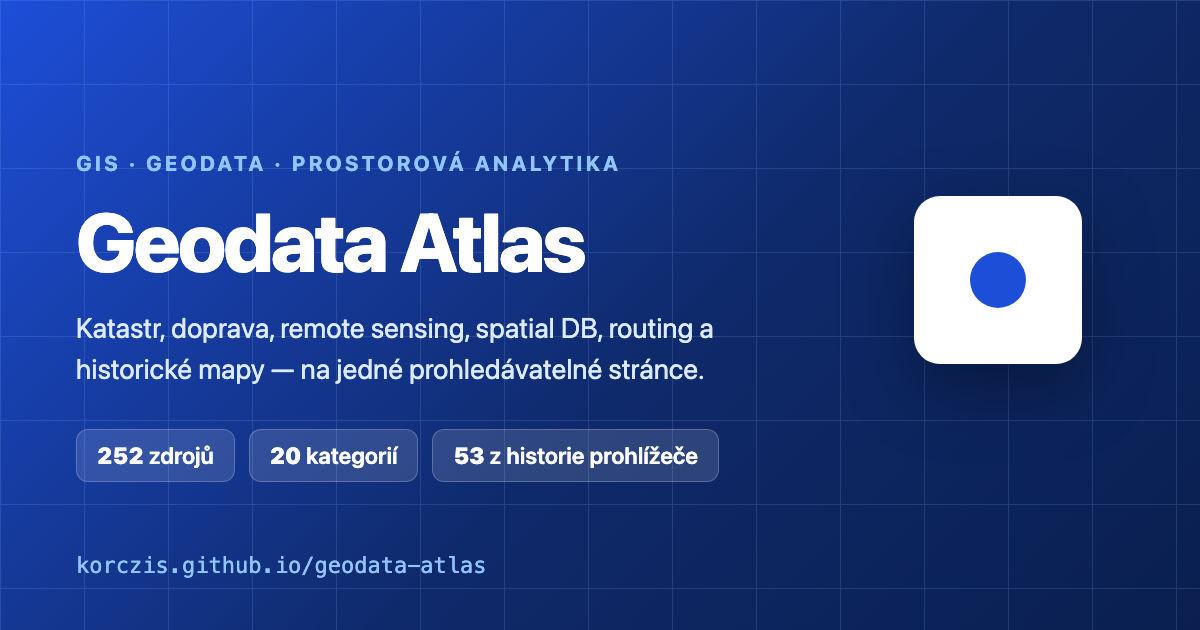
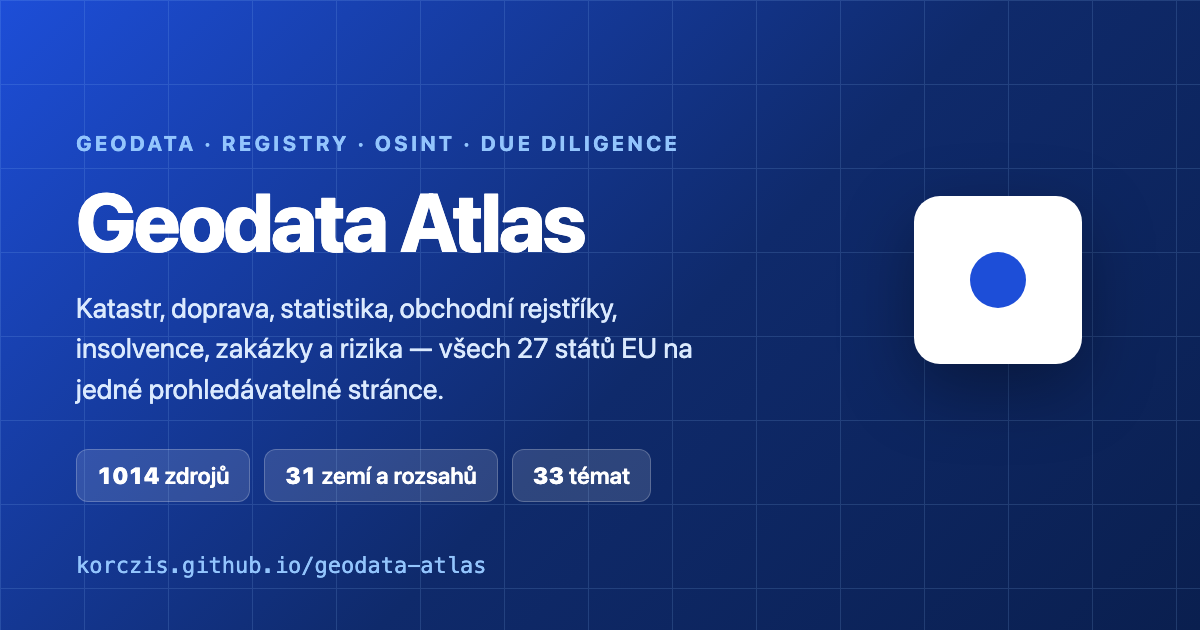
chore: regenerate the social card and gate curated data in CI
OG karta nesla počty dosazované náhradou literálů („<b>142</b>"), takže úprava
textu karty by dosazování tiše rozbila. Nově zástupné značky, které build_assets.py
vyžaduje — když v šabloně chybí, skončí to chybou, ne špatným obrázkem.
Číselné sloupce se přejmenovaly spolu se schématem katalogu.

CI nově pouští validate_sources.py a build_catalog.py a padá, když se
data/catalog.csv rozejde s data/sources/*.json — stejná pojistka, jakou už
mělo docs/. Pages workflow totéž před buildem.

README popisuje širší rozsah, obě osy klasifikace přístupu a nový datový řetěz;
ručně psané počty položek z něj zmizely úplně, protože se odvozují z dat.

Claude-Session: https://claude.ai/code/session_01QpTSppJbkMCygWg3x8Say3

Changed region(s): [[0.0617, 0.3016, 0.6167, 0.6333], [0.0617, 0.6635, 0.6167, 0.8143], [0.0617, 0.2111, 0.5858, 0.2714]]

diff --git a/src/assets/og.html b/src/assets/og.html
@@ -34,13 +34,13 @@
 <div class="grid"></div>
 <div class="cell"><i></i></div>
 <div class="wrap">
-  <p class="eyebrow">GIS · Geodata · Prostorová analytika</p>
+  <p class="eyebrow">Geodata · Registry · OSINT · Due diligence</p>
   <h1>Geodata&nbsp;Atlas</h1>
-  <p>Katastr, doprava, remote sensing, spatial DB, routing a historické mapy — na jedné prohledávatelné stránce.</p>
+  <p>Katastr, doprava, statistika, obchodní rejstříky, insolvence, zakázky a rizika — všech 27 států EU na jedné prohledávatelné stránce.</p>
   <div class="stats">
-    <span class="stat"><b>142</b> zdrojů</span>
-    <span class="stat"><b>17</b> kategorií</span>
-    <span class="stat"><b>53</b> z historie prohlížeče</span>
+    <span class="stat"><b>{{ITEMS}}</b> zdrojů</span>
+    <span class="stat"><b>{{COUNTRIES}}</b> zemí a rozsahů</span>
+    <span class="stat"><b>{{TOPICS}}</b> témat</span>
   </div>
 </div>
 <div class="url">korczis.github.io/geodata-atlas</div>

diff --git a/tools/build_assets.py b/tools/build_assets.py
@@ -41,12 +41,12 @@ def icon(size: int, out: Path) -> None:
                     "-gravity", "center", "-extent", f"{size}x{size}", out], check=True)
 
 
-def stats() -> tuple[int, int, int]:
+def stats() -> dict[str, int]:
     with (ROOT / "data" / "catalog.csv").open(encoding="utf-8-sig") as fh:
         rows = list(csv.DictReader(fh))
-    with (ROOT / "data" / "longlist.csv").open(encoding="utf-8-sig") as fh:
-        longlist = len(list(csv.DictReader(fh)))
-    return len(rows), len({r["Kategorie"] for r in rows}), longlist
+    return {"ITEMS": len(rows),
+            "TOPICS": len({r["Téma"] for r in rows}),
+            "COUNTRIES": len({r["Kód"] for r in rows})}
 
 
 def main() -> None:
@@ -72,11 +72,15 @@ def main() -> None:
     subprocess.run(["magick", TMP / "i16.png", TMP / "i32.png", TMP / "i48.png",
                     STATIC / "favicon.ico"], check=True)
 
-    items, cats, longlist = stats()
+    numbers = stats()
     og = (SRC / "og.html").read_text(encoding="utf-8")
-    og = og.replace("<b>142</b>", f"<b>{items}</b>") \
-           .replace("<b>17</b>", f"<b>{cats}</b>") \
-           .replace("<b>53</b>", f"<b>{longlist}</b>")
+    # Zástupné značky, ne náhrada literálů: dřív se v šabloně přepisovalo
+    # "<b>142</b>", takže úprava textu karty tiše rozbila dosazování počtů.
+    for key, value in numbers.items():
+        token = "{{" + key + "}}"
+        if token not in og:
+            raise SystemExit(f"src/assets/og.html neobsahuje značku {token}")
+        og = og.replace(token, str(value))
     page = TMP / "og.html"
     page.write_text(og, encoding="utf-8")
     shot(page, 1200, 630, STATIC / "og-image.png")
@@ -88,7 +92,8 @@ def main() -> None:
                     "-define", "png:compression-strategy=1",
                     STATIC / "og-image.png"], check=True)
 
-    print(f"static/: ikony + OG karta ({items} položek, {cats} kategorií, {longlist} v long listu)")
+    print("static/: ikony + OG karta ("
+          + ", ".join(f"{v} {k.lower()}" for k, v in numbers.items()) + ")")
     for f in sorted(STATIC.iterdir()):
         print(f"  {f.name:26s} {f.stat().st_size / 1024:7.1f} KB")
 

diff --git a/README.md b/README.md
@@ -1,38 +1,50 @@
 # Geodata Atlas
 
-Katalog GIS a geodatových zdrojů — datasety, katastr, doprava, remote sensing,
-prostorové databáze a analytika. Prohledávatelný, filtrovatelný, na jedné stránce.
+Katalog geodat, otevřených dat, veřejných registrů a OSINT/DD zdrojů Evropské unie —
+katastr, doprava, statistika, obchodní rejstříky, skuteční majitelé, insolvence, zakázky,
+soudy, regulace a rizika. Prohledávatelný, filtrovatelný, na jedné stránce.
 
 **→ [korczis.github.io/geodata-atlas](https://korczis.github.io/geodata-atlas/)**
 
-Katalog vznikl z vlastních Chrome záložek a historie: co jsem za roky práce
-s geodaty reálně používal, doplněné o zdroje, které do obrázku patří, i když
-je zrovna nemám v historii.
+Jádro katalogu vzniklo z vlastních Chrome záložek a historie: co jsem za roky práce
+s geodaty reálně používal. Zbytek je rešerše — všech 27 členských států, zdroj po zdroji,
+s ověřenou adresou a popsaným způsobem přístupu.
 
 ## Co v tom je
 
-252 položek ve 20 kategoriích:
+Dvě nezávislé osy: **téma** říká, o jaký druh zdroje jde, **země** říká, kde platí.
+Rejstřík firem je `companies` bez ohledu na to, jestli je český nebo maltský; Malta
+je `MT` bez ohledu na to, jestli jde o katastr nebo o soudy.
 
-| | |
+| Skupina | Témata |
 |---|---|
-| Gazetteery a geokódování | Nominatim, GeoNames, Pelias, RÚIAN/VDP, OpenAddresses |
-| Globální geodata | Natural Earth, GADM, geoBoundaries, Overture, TIGER/Line, Geofabrik |
-| ČR — katastr a geodata | ČÚZK (KN, geoportál, ZABAGED, DMR), ArcČR, DIBAVOD, LPIS, ČGS |
-| ČR — doprava a mobilita | Golemio, ŘSD, NDIC/dopravniinfo, PID |
-| Polsko — katastr a geodata | Geoportal/GUGiK, ULDK, Krajowa Integracja, RCN, ISOK, BDL |
-| Polsko — doprava a mobilita | GDDKiA, PKP PLK (MILK2), Portal Pasażera, GTFS |
-| Open data a registry PL | dane.gov.pl, GUS (BDL, TERYT), KRS, KRZ, CRBR, CEIDG |
-| Crime, IZS, bezpečnost | SFPD dashboard, data.police.uk, portály HZS, ACLED, GDELT |
-| Remote sensing | Copernicus, EarthExplorer, NASA Earthdata, OpenTopography, STAC |
-| Statistika a demografie | ČSÚ, Eurostat GISCO, WorldPop, GHSL |
-| Historické mapy | David Rumsey, Old Maps Online, Mapire, archiv ČÚZK |
-| Mapové knihovny a basemapy | MapLibre, Leaflet, deck.gl, OpenLayers, Protomaps, PMTiles |
-| Spatial DB a analytika | PostGIS, GDAL, QGIS, GeoPandas, DuckDB spatial, Sedona, H3 |
-| Routing | OSRM, Valhalla, GraphHopper, pgRouting, OSMnx |
-| Formáty a standardy | GeoParquet, COG, FlatGeobuf, EPSG.io, OGC API, STAC |
+| Geodata | geoportály a NSDI, katastr a pozemkové knihy, adresy, ortofoto a výškopis, prostředí a geologie, doprava, remote sensing, globální referenční data |
+| Veřejná data a správa | otevřená data, statistika, legislativa a věstníky, veřejné zakázky, rozpočty a dotace |
+| Firmy a due diligence | obchodní rejstříky, skuteční majitelé, účetní závěrky, insolvence, soudy, regulace a licence, nemovitosti |
+| Rizika a OSINT | sankce, kriminalita a IZS, kyberbezpečnost, počasí, transparentnost a volby, OSINT, archivy |
+| Nástroje | gazetteery, mapové knihovny, spatial DB, routing, formáty |
+| Učení | komunita a kurzy |
 
-Plný výpis je v [`docs/CATALOG.md`](docs/CATALOG.md), strojově čitelný
-v [`data/catalog.csv`](data/catalog.csv).
+Celoevropské zdroje (TED, data.europa.eu, Eurostat, BRIS, VIES, EBA, ESMA…) stojí
+pod rozsahem `EU` a needitují se sedmadvacetkrát; celosvětové pod `GLOBAL`.
+
+Plný výpis je v [`docs/CATALOG.md`](docs/CATALOG.md), matice pokrytí
+v [`docs/COVERAGE.md`](docs/COVERAGE.md), strojově čitelně v [`data/catalog.csv`](data/catalog.csv).
+Jak přidat zemi nebo zdroj popisuje [`docs/EU-EXPANSION-PLAN.md`](docs/EU-EXPANSION-PLAN.md).
+
+## Co katalog říká o přístupu
+
+U každého zdroje stojí, **jestli se dovnitř dostaneš** a **co si odneseš** — jsou to dvě
+různé věci a u registrů, kvůli kterým katalog vzniká, se pravidelně pletou.
+
+- `open` · `registration` · `paid` · `mixed` · `restricted` — překážka v přístupu
+- `bulk` · `api` · `ogc` · `download` · `search` · `none` — strojová dostupnost
+
+**Veřejné vyhledávání není otevřená data.** Rejstřík, ve kterém si kdokoli najde firmu,
+ale nedá se stáhnout, je `open` + `search`. Rozdíl mezi „vidím to v prohlížeči"
+a „můžu s tím počítat" je přesně to, co u prověrky rozhoduje.
+
+**Licence se nehádá.** Když ji nešlo zjistit rychle, není v katalogu.
 
 ## Zdroj a jeho meze
 
@@ -40,7 +52,7 @@ Sloupec **Zdroj** říká, odkud položka pochází:
 
 - `bookmarks` / `history` / `bookmarks+history` — doloženo v exportu prohlížeče,
   včetně počtu návštěv a data poslední návštěvy
-- `reference` — doplněno ručně, protože do katalogu patří
+- `reference` — doplněno rešerší a ověřeno odkazem, ne návštěvou
 
 **Chrome drží historii jen zhruba 90 dní.** Cokoli staršího v datech není,
 takže nízký počet návštěv neznamená, že zdroj není používaný — jen že se do
@@ -54,11 +66,30 @@ a tvářil se jako nejnavštěvovanější položka katalogu.
 
 ```bash
 just install     # npm závislosti
-just build       # dist/index.html z data/*.csv
-just check       # build + lint + testy + responzivita
+just catalog     # data/catalog.csv z data/sources/*.json
+just build       # dist/index.html z data/catalog.csv
+just check       # validace dat + build + lint + testy + responzivita + a11y
+just links       # ověření odkazů (chodí po síti; --country AT, --topic companies, --changed)
 just serve       # náhled na localhost:8000
 just             # všechny recepty
 ```
+
+### Datový řetěz
+
+```
+data/sources/<KÓD>.json  ─┐
+data/topics.json          ├─→ tools/build_catalog.py ─→ data/catalog.csv ─→ stránka + docs
+data/countries.json       │
+data/provenance.csv      ─┘
+                            tools/build_provenance.py ←─ .cache/raw.json   (jen lokálně)
+```
+
+**Zdrojem pravdy jsou `data/sources/*.json`** — jeden soubor na zemi nebo rozsah.
+`data/catalog.csv`, `docs/CATALOG.md` i `docs/COVERAGE.md` se z nich generují.
+
+Doložení z prohlížeče se počítá odděleně a committuje jako `data/provenance.csv`.
+Veřejný build tedy projde i na čistém klonu bez cizího Chrome profilu — hlídá to
+`tools/validate_sources.py`.
 
 Build vyrábí dvě varianty téhož:
 
@@ -74,36 +105,38 @@ Z Flowbite se bundluje jen to, co markup opravdu používá: plný `flowbite.min
 má 133 kB a nese accordion, carousel či datepicker, které tu nejsou — výřez
 s jediným šuplíkem má 9 kB.
 
-Hlídá to 100 testů ve čtyřech sadách (`smoke` · `interact` · `meta` · `flowbite`),
-linter konvencí, měření responzivity a audit přístupnosti přes axe-core —
-vše v `just check`.
+Hlídají to čtyři testové sady (`smoke` · `interact` · `meta` · `flowbite`),
+validace kurátorovaných dat, linter konvencí, měření responzivity a audit
+přístupnosti přes axe-core — vše v `just check`.
 
 ### Rozvržení
 
 Aplikační shell adaptovaný z Flowbite Pro Admin Dashboardu — horní lišta,
-postranní panel se všemi 20 kategoriemi a jejich počty, hlavní obsah a lepivá
-souhrnná lišta. Podrobnosti k licenci jsou v [`NOTICE.md`](NOTICE.md).
+postranní panel, hlavní obsah a lepivá souhrnná lišta. Podrobnosti k licenci
+jsou v [`NOTICE.md`](NOTICE.md).
 
-Katalog má dvě úrovně: **skupina → kategorie**. Dvacet kategorií v plochém
-seznamu je na 252 položek moc, tak je panel řadí do šesti skupin (Data — svět,
-Data — Česko, Data — Polsko, Události a rizika, Nástroje, Učení) a výsledky se
-člení po kategoriích. Filtr se propisuje do URL, takže výřez katalogu jde poslat dál.
+Panel nese obě osy: **země** s vlastním filtrovacím polem (sedmadvacet států
+plus nadnárodní rozsahy se do plochého seznamu nevejde) a **témata** seskupená
+do šesti rodin. Počty se počítají křížem — při vybraném Rakousku ukazují témata
+počty v Rakousku, při vybraném tématu ukazují země počty v tom tématu.
+Filtr se propisuje do URL (`#country=DE&topic=companies`), takže výřez katalogu
+jde poslat dál; v URL stojí stabilní identifikátor tématu, ne popisek.
 
 Mobile-first. Pod `md` se katalog vykresluje jako karty, výš jako tabulka
-s řaditelnými sloupci — tabulka o šesti sloupcích se na telefon nevejde.
-Postranní panel je pod `lg` šuplík, od `lg` výš stojí napevno; pohled se pod
-`sm` přepíná i spodní navigací. Obě větve čtou týž getter a testy ověřují,
-že vykreslí stejný počet položek.
+s řaditelnými sloupci. **Vykresluje se vždy jen ta větev, která je vidět** —
+držet v DOM obě stálo u tisícovky položek zhruba vteřinu navíc a dvojnásobek
+uzlů, z toho polovinu neviditelných.
 
 Konvence Flowbite a Alpine popisuje [`docs/UI-RULES.md`](docs/UI-RULES.md)
 a vynucuje `just lint`. `just responsive` měří vodorovné přetečení v headless
 Chrome na šířkách 320 – 1536 px, `just a11y` pouští axe-core ve čtyřech
 scénářích (mobil i desktop × světlý i tmavý motiv).
 
-### Přidání položky
+### Přidání zdroje
 
-Edituj `data/catalog.csv`, pak `just build docs`. Sloupce `Zdroj`, `Návštěvy`
-a `Poslední návštěva` nech u ručně přidaných prázdné — patří datovému řetězu.
+Edituj `data/sources/<KÓD>.json`, pak `just validate`, `just links --changed`
+a `just catalog docs build`. Schéma, číselníky a pravidla pro klasifikaci přístupu
+jsou v [`docs/EU-EXPANSION-PLAN.md`](docs/EU-EXPANSION-PLAN.md).
 
 ### Ikony a OG karta
 
@@ -117,10 +150,11 @@ Nikde se nepíšou ručně, takže nemůžou zestárnout.
 
 ### Přegenerování z prohlížeče
 
-Vyžaduje Chrome profil na disku, běží jen lokálně:
+Vyžaduje Chrome profil na disku, běží jen lokálně a týká se **výhradně doložení
+a long listu**, ne katalogu samotného:
 
 ```bash
-just refresh     # extract → scan → catalog → sanitize → docs → build
+just refresh     # extract → scan → longlist → sanitize → provenance → catalog → docs → build
 just extract "~/Library/Application Support/Google/Chrome/Profile 1"
 ```
 
@@ -155,13 +189,17 @@ Co audit našel a co by jinak zůstalo:
 - Šest služeb se přestěhovalo (`developer.mapy.cz` → `.com`, `eagri.cz` →
   `mze.gov.cz`, `geoportal.cuzk.cz` → `.gov.cz`, …). Historické návštěvy pod
   starým jménem jsou pořád důkaz, že zdroj znáš, takže je drží
-  `DOMAIN_ALIASES` v `tools/build_catalog.py`.
+  `DOMAIN_ALIASES` v `tools/build_provenance.py`.
 - Věcné chyby v popisech: `pgRouting` není součást PostGIS, `ESA WorldCover`
   existuje jen pro roky 2020 a 2021, `Planetary Computer` vypnul hostovaný
   JupyterHub, David Rumsey má 150 tisíc map a georeferencovaná je jen část.
 
-Patch aplikuje `tools/apply_patch.py` do `tools/build_catalog.py`, ne do CSV —
-zdrojem pravdy je generátor. Dá se projít, po položkách zamítnout a spustit znovu.
+Rozšíření na EU proběhlo stejnou logikou, jen bez agentů: **ověřit adresu →
+napsat popis**, nikdy naopak. Ověřování cestou odhalilo, že
+`www.ubo.nl` není nizozemský registr skutečných majitelů, ale strojírenská
+firma pro betonárny, že INSPIRE geoportál Komise skončil a přesměrovává
+na `data.europa.eu`, a že Amtsblatt zur Wiener Zeitung zanikl a nahradilo
+ho `evi.gv.at`.
 
 ## Odkazy stárnou
 
@@ -175,6 +213,7 @@ a rozliší:
 | `přesměrování` | web se přestěhoval — stojí za pohled, ale často jde jen o jazykovou mutaci nebo session ID |
 | `blokuje` | 403 na automat, v prohlížeči funguje (Cloudflare a spol.) |
 | `certifikát` | TLS selže, přes `-k` obsah naskočí — vada webu, ne katalogu |
+| `deklarováno` | zdroj má v datech `check: anti-bot`: server spojení po handshaku zahodí, přestože web žije. **Ověřuje se ručně** |
 | `chyba` | opravdu nikam nevede |
 
 Rozlišení není puntičkářství: první běh nahlásil osm chyb, ze kterých byly
@@ -182,8 +221,15 @@ Rozlišení není puntičkářství: první běh nahlásil osm chyb, ze kterých
 selhání lokálního DNS. Checker proto překládá jména sám přes DoH, jinak by
 výsledek závisel na tom, na jaké síti zrovna běží.
 
+Rozšíření na EU do něj přidalo další tři poznatky: německé spolkové portály
+odpovídají na HEAD kódem 400 a na tentýž GET vydají stránku; část portálů se
+mezi `https` a `http` točí ve smyčce, kterou pět skoků neutáhne; a některé weby
+spojení po TLS handshaku prostě zahodí, což od mrtvého odkazu automat nerozezná.
+
 Kontrola není součástí `just check`, protože chodí po síti. Běží měsíčně
 [vlastním workflow](.github/workflows/links.yml), který při nálezu založí issue.
+Při rozpracované práci se zužuje: `just links --country AT`, `--topic companies`,
+`--changed`.
 
 ## Soukromí
 
@@ -192,7 +238,7 @@ aby ji nešlo zveřejnit omylem:
 
 - `.cache/` je v `.gitignore` a **veškeré syrové výstupy končí tam** —
   `raw.json` i `longlist.raw.csv`
-- do `data/` se dostane jen to, co projde `tools/sanitize.py`
+- do `data/longlist.csv` se dostane jen to, co projde `tools/sanitize.py`
 - sanitizer je allowlist-first: vyhazuje interní hostnames, privátní a VPN
   adresy, tunely, zdravotnické a identitní služby, a všechno, co netrefí
   téma geo/data. Z 192 kandidátů projde 53.
@@ -207,6 +253,12 @@ aby ji nešlo zveřejnit omylem:
 
 Před každým zveřejněním stojí za to projet `python3 tools/sanitize.py` a
 podívat se, co vyhodilo.
+
+## Co katalog není
+
+Je to soupis **zdrojů a služeb**, ne databáze osob. Zdroj, který je za
+přihlášením, za platbou nebo za oprávněným zájmem, se zapíše s uvedením
+té překážky — neobchází se.
 
 ## Licence
 
